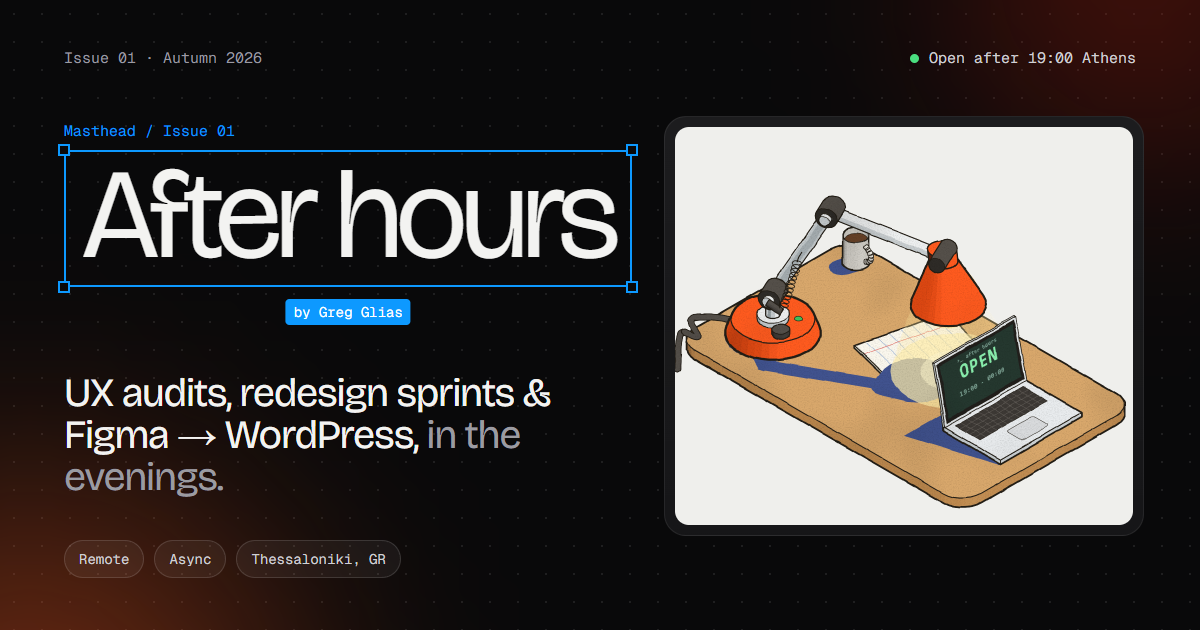
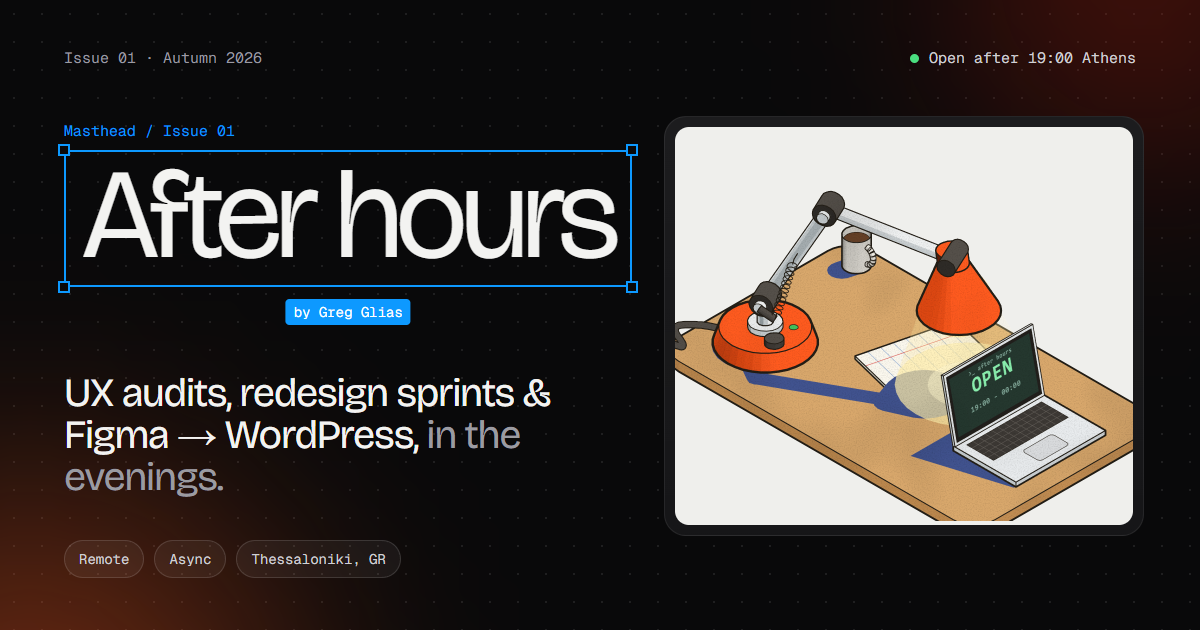
Desk on the site without the hand-drawn wobble (straight lines); social image re-rendered

Changed region(s): [[0.555, 0.3016, 0.9558, 0.8444]]

diff --git a/assets/desk-lamp.html b/assets/desk-lamp.html
@@ -1104,6 +1104,8 @@ const ui = mountFigure({
   },
 });
 xrMount(() => ui, XR_CAPTION);
+// on the site the lines stay straight: no hand-drawn wobble
+if (EMBED){ const wob = document.getElementById('wob'); if (wob) wob.setAttribute('scale', '0'); }
 // the site hero drives the lamp and the screen from Athens time
 addEventListener('message', e => {
   if (e.origin !== location.origin || !e.data || e.data.type !== 'lamp') return;

diff --git a/figure-src/desk-lamp.html b/figure-src/desk-lamp.html
@@ -461,6 +461,8 @@ const ui = mountFigure({
   },
 });
 xrMount(() => ui, XR_CAPTION);
+// on the site the lines stay straight: no hand-drawn wobble
+if (EMBED){ const wob = document.getElementById('wob'); if (wob) wob.setAttribute('scale', '0'); }
 // the site hero drives the lamp and the screen from Athens time
 addEventListener('message', e => {
   if (e.origin !== location.origin || !e.data || e.data.type !== 'lamp') return;
